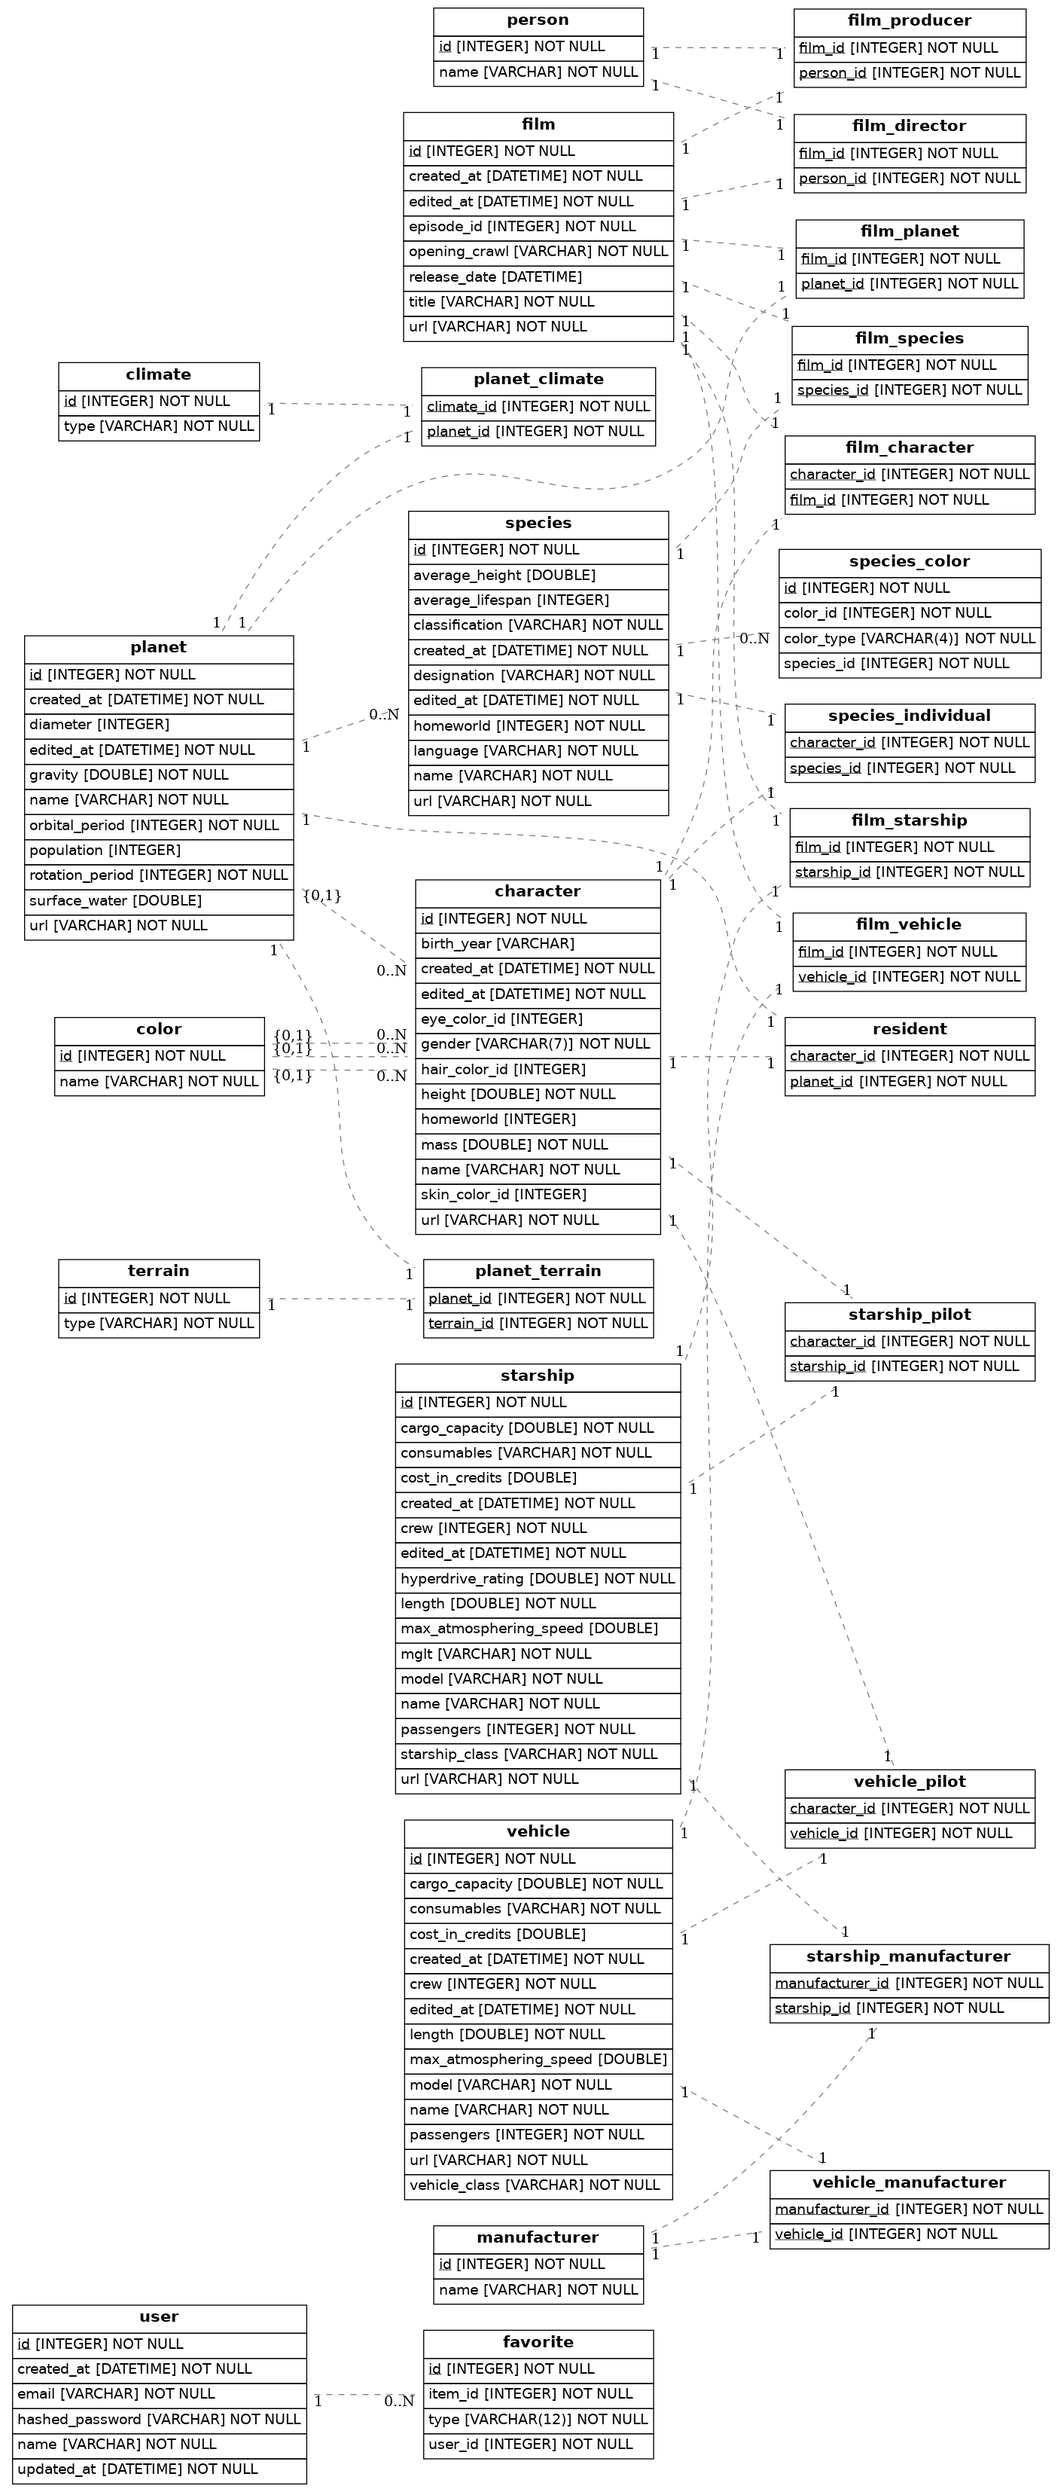
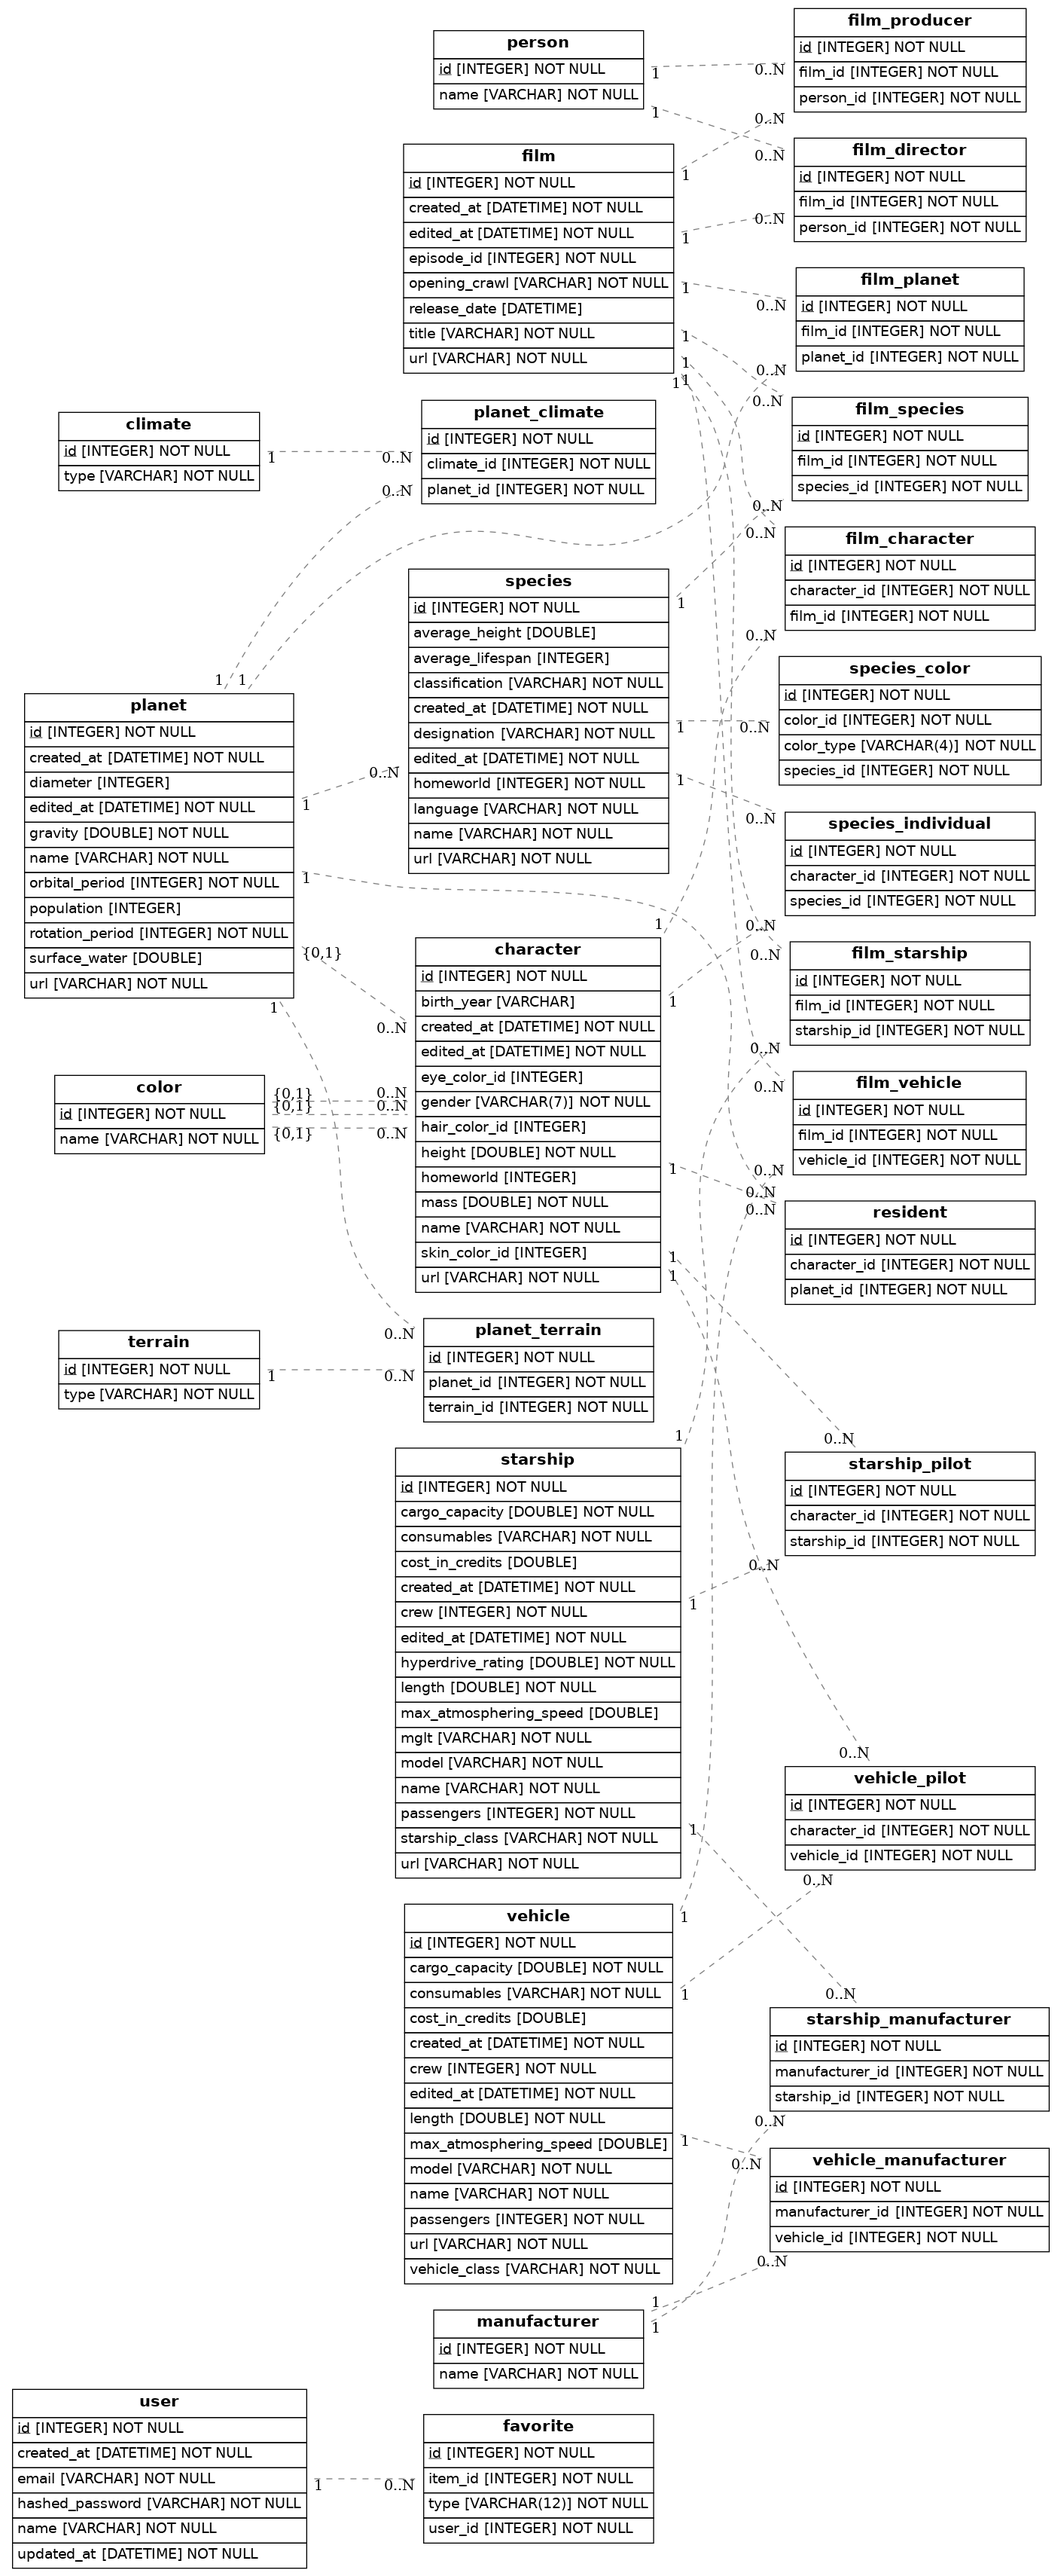
Replace composite keys with single primary keys

diff --git a/src/models.py b/src/models.py
@@ -174,43 +174,51 @@ class Manufacturer(Base):
 
 class FilmDirector(Base):
     __tablename__ = "film_director"
-    film_id = Column(Integer, ForeignKey("film.id"), primary_key=True)
-    person_id = Column(Integer, ForeignKey("person.id"), primary_key=True)
+    id = Column(Integer, primary_key=True)
+    film_id = Column(Integer, ForeignKey("film.id"), nullable=False)
+    person_id = Column(Integer, ForeignKey("person.id"), nullable=False)
 
 class FilmProducer(Base):
     __tablename__ = "film_producer"
-    film_id = Column(Integer, ForeignKey("film.id"), primary_key=True)
-    person_id = Column(Integer, ForeignKey("person.id"), primary_key=True)
+    id = Column(Integer, primary_key=True)
+    film_id = Column(Integer, ForeignKey("film.id"), nullable=False)
+    person_id = Column(Integer, ForeignKey("person.id"), nullable=False)
 
 class FilmCharacter(Base):
     __tablename__ = "film_character"
-    film_id = Column(Integer, ForeignKey("film.id"), primary_key=True)
-    character_id = Column(Integer, ForeignKey("character.id"), primary_key=True)
+    id = Column(Integer, primary_key=True)
+    film_id = Column(Integer, ForeignKey("film.id"), nullable=False)
+    character_id = Column(Integer, ForeignKey("character.id"), nullable=False)
 
 class FilmPlanet(Base):
     __tablename__ = "film_planet"
-    film_id = Column(Integer, ForeignKey("film.id"), primary_key=True)
-    planet_id = Column(Integer, ForeignKey("planet.id"), primary_key=True)
+    id = Column(Integer, primary_key=True)
+    film_id = Column(Integer, ForeignKey("film.id"), nullable=False)
+    planet_id = Column(Integer, ForeignKey("planet.id"), nullable=False)
 
 class FilmSpecies(Base):
     __tablename__ = "film_species"
-    film_id = Column(Integer, ForeignKey("film.id"), primary_key=True)
-    species_id = Column(Integer, ForeignKey("species.id"), primary_key=True)
+    id = Column(Integer, primary_key=True)
+    film_id = Column(Integer, ForeignKey("film.id"), nullable=False)
+    species_id = Column(Integer, ForeignKey("species.id"), nullable=False)
 
 class FilmStarship(Base):
     __tablename__ = "film_starship"
-    film_id = Column(Integer, ForeignKey("film.id"), primary_key=True)
-    starship_id = Column(Integer, ForeignKey("starship.id"), primary_key=True)
+    id = Column(Integer, primary_key=True)
+    film_id = Column(Integer, ForeignKey("film.id"), nullable=False)
+    starship_id = Column(Integer, ForeignKey("starship.id"), nullable=False)
 
 class FilmVehicle(Base):
     __tablename__ = "film_vehicle"
-    film_id = Column(Integer, ForeignKey("film.id"), primary_key=True)
-    vehicle_id = Column(Integer, ForeignKey("vehicle.id"), primary_key=True)
+    id = Column(Integer, primary_key=True)
+    film_id = Column(Integer, ForeignKey("film.id"), nullable=False)
+    vehicle_id = Column(Integer, ForeignKey("vehicle.id"), nullable=False)
 
 class Resident(Base):
     __tablename__ = "resident"
-    planet_id = Column(Integer, ForeignKey("planet.id"), primary_key=True)
-    character_id = Column(Integer, ForeignKey("character.id"), primary_key=True)
+    id = Column(Integer, primary_key=True)
+    planet_id = Column(Integer, ForeignKey("planet.id"), nullable=False)
+    character_id = Column(Integer, ForeignKey("character.id"), nullable=False)
 
 class ColorType(enum.Enum):
     EYE = "eye"
@@ -226,38 +234,45 @@ class SpeciesColor(Base):
 
 class SpeciesIndividual(Base):
     __tablename__ = "species_individual"
-    species_id = Column(Integer, ForeignKey("species.id"), primary_key=True)
-    character_id = Column(Integer, ForeignKey("character.id"), primary_key=True)
+    id = Column(Integer, primary_key=True)
+    species_id = Column(Integer, ForeignKey("species.id"), nullable=False)
+    character_id = Column(Integer, ForeignKey("character.id"), nullable=False)
 
 class StarshipPilot(Base):
     __tablename__ = "starship_pilot"
-    starship_id = Column(Integer, ForeignKey("starship.id"), primary_key=True)
-    character_id = Column(Integer, ForeignKey("character.id"), primary_key=True)
+    id = Column(Integer, primary_key=True)
+    starship_id = Column(Integer, ForeignKey("starship.id"), nullable=False)
+    character_id = Column(Integer, ForeignKey("character.id"), nullable=False)
 
 class VehiclePilot(Base):
     __tablename__ = "vehicle_pilot"
-    vehicle_id = Column(Integer, ForeignKey("vehicle.id"), primary_key=True)
-    character_id = Column(Integer, ForeignKey("character.id"), primary_key=True)
+    id = Column(Integer, primary_key=True)
+    vehicle_id = Column(Integer, ForeignKey("vehicle.id"), nullable=False)
+    character_id = Column(Integer, ForeignKey("character.id"), nullable=False)
 
 class StarshipManufacturer(Base):
     __tablename__ = "starship_manufacturer"
-    starship_id = Column(Integer, ForeignKey("starship.id"), primary_key=True)
-    manufacturer_id = Column(Integer, ForeignKey("manufacturer.id"), primary_key=True)
+    id = Column(Integer, primary_key=True)
+    starship_id = Column(Integer, ForeignKey("starship.id"), nullable=False)
+    manufacturer_id = Column(Integer, ForeignKey("manufacturer.id"), nullable=False)
 
 class VehicleManufacturer(Base):
     __tablename__ = "vehicle_manufacturer"
-    vehicle_id = Column(Integer, ForeignKey("vehicle.id"), primary_key=True)
-    manufacturer_id = Column(Integer, ForeignKey("manufacturer.id"), primary_key=True)
+    id = Column(Integer, primary_key=True)
+    vehicle_id = Column(Integer, ForeignKey("vehicle.id"), nullable=False)
+    manufacturer_id = Column(Integer, ForeignKey("manufacturer.id"), nullable=False)
 
 class PlanetClimate(Base):
     __tablename__ = "planet_climate"
-    planet_id = Column(Integer, ForeignKey("planet.id"), primary_key=True)
-    climate_id = Column(Integer, ForeignKey("climate.id"), primary_key=True)
+    id = Column(Integer, primary_key=True)
+    planet_id = Column(Integer, ForeignKey("planet.id"), nullable=False)
+    climate_id = Column(Integer, ForeignKey("climate.id"), nullable=False)
 
 class PlanetTerrain(Base):
     __tablename__ = "planet_terrain"
-    planet_id = Column(Integer, ForeignKey("planet.id"), primary_key=True)
-    terrain_id = Column(Integer, ForeignKey("terrain.id"), primary_key=True)
+    id = Column(Integer, primary_key=True)
+    planet_id = Column(Integer, ForeignKey("planet.id"), nullable=False)
+    terrain_id = Column(Integer, ForeignKey("terrain.id"), nullable=False)
 
 # Draw from SQLAlchemy base
 render_er(Base, 'diagram.png')
